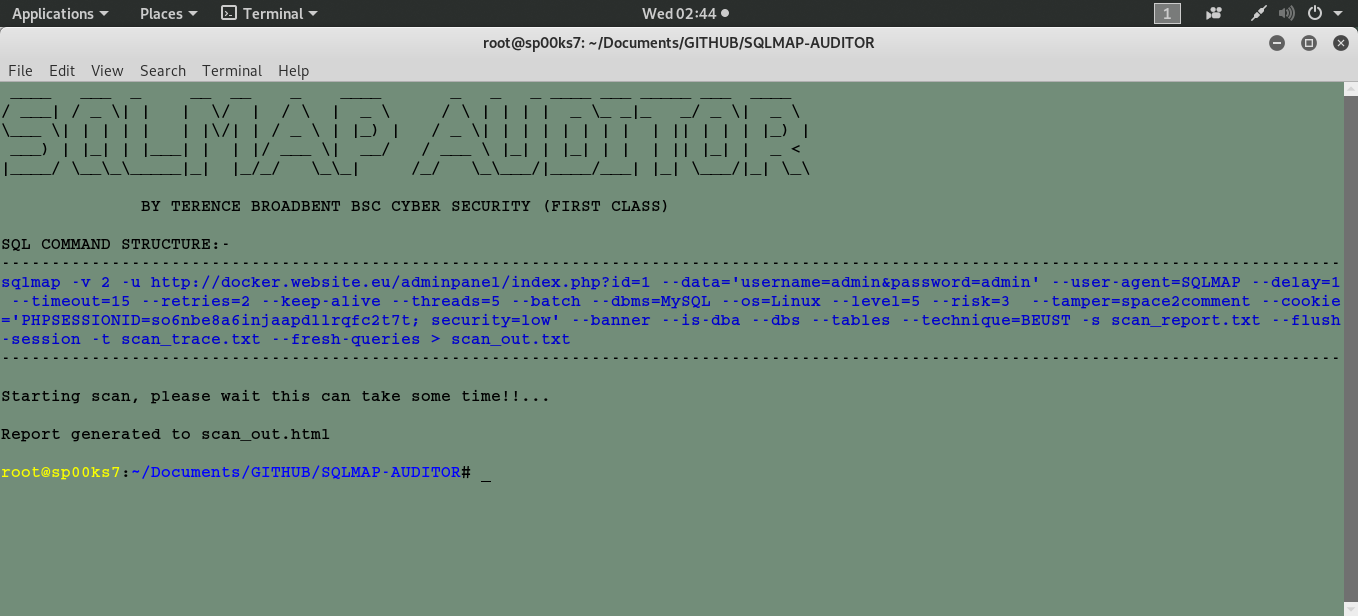
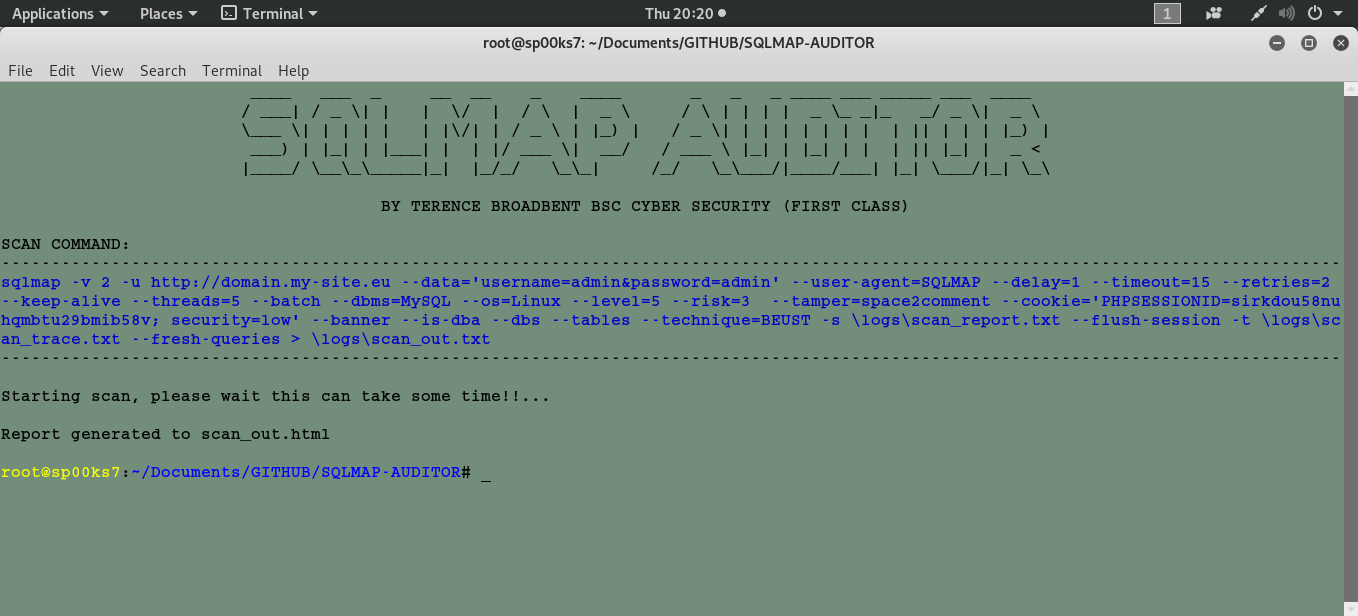
changes

diff --git a/sqlmap-auditor.py b/sqlmap-auditor.py
@@ -16,11 +16,7 @@
 
 import os
 import sys
-import subprocess
 import os.path
-import fileinput
-import shutil
-import linecache
 from termcolor import colored					# pip install termcolor
 
 # -------------------------------------------------------------------------------------
@@ -41,6 +37,9 @@ if len(sys.argv) < 2:
 
 fileName = sys.argv[1]
 
+if os.path.exists("logs") == 0:
+   os.system("mkdir logs")
+
 # -------------------------------------------------------------------------------------
 # AUTHOR  : Terence Broadbent                                                    
 # CONTRACT: GitHub
@@ -50,14 +49,23 @@ fileName = sys.argv[1]
 # -------------------------------------------------------------------------------------
 
 os.system("clear")
-print " ____   ___  _     __  __    _    ____       _   _   _ ____ ___ _____ ___  ____   "
-print "/ ___| / _ \| |   |  \/  |  / \  |  _ \     / \ | | | |  _ \_ _|_   _/ _ \|  _ \  "
-print "\___ \| | | | |   | |\/| | / _ \ | |_) |   / _ \| | | | | | | |  | || | | | |_) | "
-print " ___) | |_| | |___| |  | |/ ___ \|  __/   / ___ \ |_| | |_| | |  | || |_| |  _ <  "
-print "|____/ \__\_\_____|_|  |_/_/   \_\_|     /_/   \_\___/|____/___| |_| \___/|_| \_\ "
-print "                                                                                  "
-print "              BY TERENCE BROADBENT BSC CYBER SECURITY (FIRST CLASS)              \n"
+print "\t\t\t ____   ___  _     __  __    _    ____       _   _   _ ____ ___ _____ ___  ____   "
+print "\t\t\t/ ___| / _ \| |   |  \/  |  / \  |  _ \     / \ | | | |  _ \_ _|_   _/ _ \|  _ \  "
+print "\t\t\t\___ \| | | | |   | |\/| | / _ \ | |_) |   / _ \| | | | | | | |  | || | | | |_) | "
+print "\t\t\t ___) | |_| | |___| |  | |/ ___ \|  __/   / ___ \ |_| | |_| | |  | || |_| |  _ <  "
+print "\t\t\t|____/ \__\_\_____|_|  |_/_/   \_\_|     /_/   \_\___/|____/___| |_| \___/|_| \_\ "
+print "\t\t\t                                                                                  "
+print "\t\t\t              BY TERENCE BROADBENT BSC CYBER SECURITY (FIRST CLASS)             \n"
 
+# ------------------------------------------------------------------------------------- 
+# AUTHOR  : Terence Broadbent                                                    
+# CONTRACT: GitHub
+# Version : 1.0                                                                
+# Details : Initialise program variables.
+# Modified: N/A
+# -------------------------------------------------------------------------------------
+
+command = "sqlmap -v 2 -u http://" + fileName + " --data='username=admin&password=admin' --user-agent=SQLMAP --delay=1 --timeout=15 --retries=2 --keep-alive --threads=5 --batch --dbms=MySQL --os=Linux --level=5 --risk=3  --tamper=space2comment --cookie='PHPSESSIONID=sirkdou58nuhqmbtu29bmib58v; security=low' --banner --is-dba --dbs --tables --technique=BEUST -s logs/scan_report.txt --flush-session -t logs/scan_trace.txt --fresh-queries > logs/scan_out.txt"
 
 # ------------------------------------------------------------------------------------- 
 # AUTHOR  : Terence Broadbent                                                    
@@ -67,14 +75,12 @@ print "              BY TERENCE BROADBENT BSC CYBER SECURITY (FIRST CLASS)      
 # Modified: N/A
 # -------------------------------------------------------------------------------------
 
-command = "sqlmap -v 2 -u http://" + fileName + " --data='username=admin&password=admin' --user-agent=SQLMAP --delay=1 --timeout=15 --retries=2 --keep-alive --threads=5 --batch --dbms=MySQL --os=Linux --level=5 --risk=3  --tamper=space2comment --cookie='PHPSESSIONID=so6nbe8a6injaapdllrqfc2t7t; security=low' --banner --is-dba --dbs --tables --technique=BEUST -s scan_report.txt --flush-session -t scan_trace.txt --fresh-queries > scan_out.txt"
-
-print "SQL COMMAND STRUCTURE:-"
+print "SCAN COMMAND:"
 print "-"*134
 print colored(command,'blue')
 print "-"*134
-
 print "\nStarting scan, please wait this can take some time!!..."
+
 os.system(command)
 
 # ------------------------------------------------------------------------------------- 
@@ -86,15 +92,17 @@ os.system(command)
 # AUTHOR  : Terence Broadbent
 # -------------------------------------------------------------------------------------
 
-injectable = False # Flag to know if global audit is OK
-fileName1  = "scan_out.txt"
+injectable = False
+fileName1  = "logs/scan_out.txt"
 fileName2  = "scan_out.html"
+
 inputFile  = open(fileName1,"r")
 outputFile = open(fileName2,"w")
 
 # -------------------------------------------------------------------------------------
 # Details : Initialize HTML report stream.
 # -------------------------------------------------------------------------------------
+
 outputFile.write("<html xmlns=\"http://www.w3.org/1999/xhtml\" lang=\"en\" xml:lang=\"en\">")
 outputFile.write("<head><link rel=\"StyleSheet\" href=\"style.css\" type=\"text/css\" media=\"screen\" /><title>SQLMap HTML Report</title></head>")
 outputFile.write("<body><table id=\"myStyle\">")
@@ -104,6 +112,7 @@ outputFile.write("<tbody>")
 # -------------------------------------------------------------------------------------
 # Details : Read STDOUT file line by line.
 # -------------------------------------------------------------------------------------
+
 for line in inputFile:
    if (line.strip().startswith("[")) and (line.find("[*]") == -1):
       if(line.lower().find("all parameters are not injectable") > -1):
@@ -121,17 +130,20 @@ for line in inputFile:
 outputFile.write("</tbody></table>")  
       
 # -------------------------------------------------------------------------------------
-# Details : Write global audit stauts line.
+# Details : Write global audit stats line.
 # -------------------------------------------------------------------------------------
+
 if(injectable):
    outputFile.write("<h1 class=\"success\">SQLMap cannot find injectable parameters !</h1>")
 else:
    outputFile.write("<h1 class=\"fail\">SQLMap can find injectable parameters !</h1>")
+
+# -------------------------------------------------------------------------------------
+# Details : Close open file and tidy up.
 # -------------------------------------------------------------------------------------
 
 outputFile.write("</body></html>")
 outputFile.close()
 inputFile.close()
-
 print "\nReport generated to " + fileName2 + "\n"
 #End

diff --git a/README.md b/README.md
@@ -1,11 +1,11 @@
-# SQL AUDITOR
+# SQLMAP AUDITOR
 ## A PYTHON SCRIPT FILE TO PERFORM OWASP’S AUTOMATED AUDIT TESTS AGAINST WEB APPLICATION PROJECTS USING SQLMAP.
 
 Usage: python sql-auditor.py docker.website.eu:46550/adminpanel/index.php?id=0
 
 | LANGUAGE | FILENAME       | MD5 HASH                         | 
 |--------  |---------       |---------                         | 
-| python   | sql-auditor.py | 9774077d330ab3ebb2357da0e8616ffb | 
+| python   | sql-auditor.py | 77e80485382d909a53296ff3370b8c9b | 
 | html     | scan_out.html  | ed231383cbc035c41eea679027e1f861 | 
 | css      | style.css      | 988339bb494857ed7c2439ea9a7fc494 |
 
